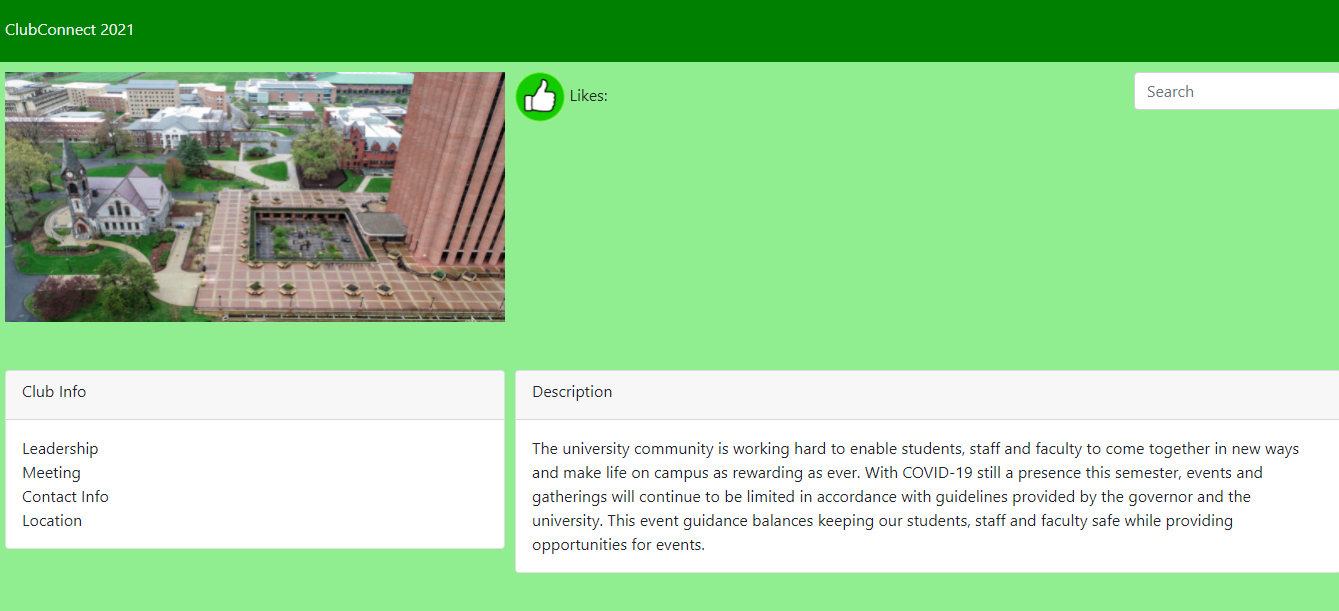
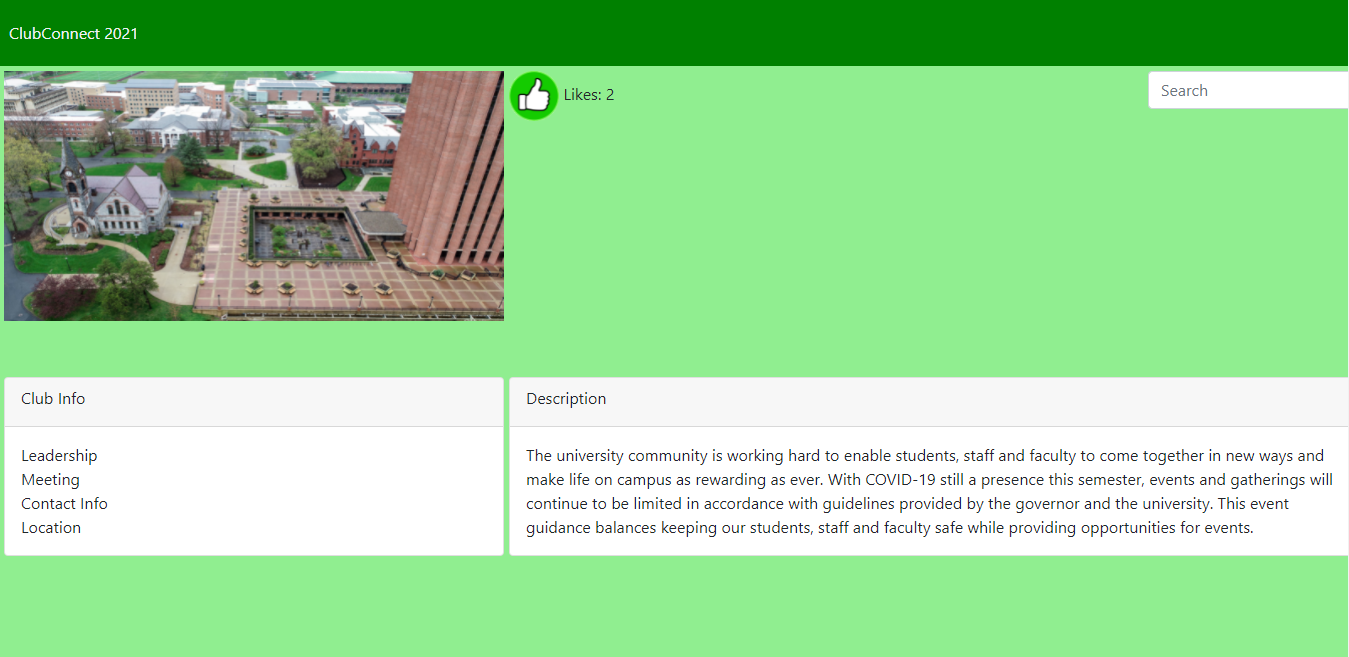
fixing bugs

diff --git a/app/public/index/club-personal-page.html b/app/public/index/club-personal-page.html
@@ -46,11 +46,11 @@
                     </div>
                 </div>
                 <div class="card-body">
-                  <label id = "club-name">Club Name</label><br>
-                  <label id = "leadership">Leadership</label><br>
-                  <label id = "meeting">Meeting</label><br>
-                  <label id = "contact-info">Contact Info</label><br>
-                  <label id = "location">Location</label><br>
+                  <input type="text" id="club-name"><br>
+                  <input type="text" id="meeting"><br>
+                  <input type="text" id="contact"><br>
+                  <input type="text" id="location"><br>
+                  <button type="button" id = 'club-info-edit'>Edit</button><br>
                 </div>
               </div>
             </div>
@@ -63,12 +63,14 @@
                     </div>
                 </div>
                 <div class="card-body" id = "club-description">
-                  The university community is working hard to enable students, staff and faculty to come together in new ways and make life on campus as rewarding as ever. With COVID-19 still a presence this semester, events and gatherings will continue to be limited in accordance with guidelines provided by the governor and the university. This event guidance balances keeping our students, staff and faculty safe while providing opportunities for events.
+                  <input type="text" id="desc">
+                  <button type="button" id = 'club-desc-edit'>Edit</button><br>
                 </div>
               </div>
             </div>
           </div>
         </div>
         <script src="https://cdn.jsdelivr.net/npm/bootstrap@5.1.3/dist/js/bootstrap.bundle.min.js" integrity="sha384-ka7Sk0Gln4gmtz2MlQnikT1wXgYsOg+OMhuP+IlRH9sENBO0LRn5q+8nbTov4+1p" crossorigin="anonymous"></script>
+        <script src="scripts/clubPersonalPage.js"></script>
     </body>
 </html>

diff --git a/app/public/scripts/clubPersonalPage.js b/app/public/scripts/clubPersonalPage.js
@@ -1,12 +1,12 @@
-async function getClubPersonalPage() {
+window.addEventListener('load', async () => {
     const res = await fetch('/read-club');
     const data = await res.json();
 
     document.getElementById('club-name').innerHTML = data.clubName;
     document.getElementById('meeting').innerHTML = data.meeting;
-    document.getElementById('contact-info').innerHTML = data.contact;
+    document.getElementById('contact').innerHTML = data.contact;
     document.getElementById('location').innerHTML = data.location;
-    document.getElementById('club-description').innerHTML = data.bio;
+    document.getElementById('desc').innerHTML = data.bio;
 
     document.getElementById('members-list').innerHTML = '';
     for (let member of data.members) {
@@ -14,4 +14,19 @@ async function getClubPersonalPage() {
         e.innerHTML = member;
         document.getElementById('members-list').appendChild(e);
     }
-}
+});
+
+document.getElementById('club-info-edit').addEventListener('click', () => {
+    updateClubInfo(localStorage.getItem('profileEmail'), 
+    document.getElementById('club-name').innerHTML,
+    document.getElementById('meeting').innerHTML,
+    document.getElementById('contact').innerHTML,
+    document.getElementById('location').innerHTML);
+    window.location.href = '/personal-page';
+});
+
+document.getElementById('club-desc-edit').addEventListener('click', () => {
+    updateClubDesc(localStorage.getItem('profileEmail'), 
+    document.getElementById('desc').innerHTML)
+    window.location.href = '/personal-page';
+});

diff --git a/app/public/scripts/clubHomePage.js b/app/public/scripts/clubHomePage.js
@@ -1,17 +1,15 @@
-async function getClubHomePage() {
+window.addEventListener('load', async () => {
     const res = await fetch('/read-club');
     const data = await res.json();
 
     document.getElementById('likes').innerHTML = 'Likes:' + data.totalLikes;
-    document.getElementById('club-name').innerHTML = data.clubName;
-    document.getElementById('meeting').innerHTML = data.meeting;
-    document.getElementById('contact-info').innerHTML = data.contact;
-    document.getElementById('location').innerHTML = data.location;
+    document.getElementById('club-name').innerHTML = 'Name: ' + data.clubName;
+    document.getElementById('meeting').innerHTML = 'Meeting:' + data.meeting;
+    document.getElementById('contact-info').innerHTML = 'Contact' + data.contact;
+    document.getElementById('location').innerHTML = 'Location' + data.location;
     document.getElementById('club-description').innerHTML = data.bio;
     
-    for (let member of data.members) {
-        const e = document.createElement('li');
-        e.innerHTML = member;
-        document.getElementById('members').appendChild(e);
-    }
-}
+    //search
+    
+
+});

diff --git a/app/database.js b/app/database.js
@@ -190,6 +190,43 @@ export async function updateClub(email) {
 
 }
 
+export async function updateClubInfo(email, name, meet, contac, place) {
+	await client.connect();
+	const database = client.db('club_connect_db');
+	const clubs = database.collection('clubs');
+
+	clubs.update(
+		{"email": email},
+		{
+		  $set: {
+			"name": name,
+			"meeting": meet,
+			"contact": contac,
+			"location": place
+		  }
+		}
+	  );
+
+	await client.close();
+}
+
+export async function updateClubDesc(email, desc) {
+	await client.connect();
+	const database = client.db('club_connect_db');
+	const clubs = database.collection('clubs');
+
+	clubs.update(
+		{"email": email},
+		{
+		  $set: {
+			"bio": desc
+		  }
+		}
+	  );
+
+	await client.close();
+}
+
 /**
  * CRUD Operations for Posts
  * 

diff --git a/app/public/index/club-home-page.html b/app/public/index/club-home-page.html
@@ -38,7 +38,6 @@
                 </div>
                 <div class="card-body">
                   <label id = "club-name">Club Name</label><br>
-                  <label id = "leadership">Leadership</label><br>
                   <label id = "meeting">Meeting</label><br>
                   <label id = "contact-info">Contact Info</label><br>
                   <label id = "location">Location</label><br>
@@ -61,5 +60,6 @@
           </div>
         </div>
         <script src="https://cdn.jsdelivr.net/npm/bootstrap@5.1.3/dist/js/bootstrap.bundle.min.js" integrity="sha384-ka7Sk0Gln4gmtz2MlQnikT1wXgYsOg+OMhuP+IlRH9sENBO0LRn5q+8nbTov4+1p" crossorigin="anonymous"></script>
+        <script src="scripts/clubHomePage.js"></script>
     </body>
 </html>

diff --git a/app/public/scripts/studentPersonalPage.js b/app/public/scripts/studentPersonalPage.js
@@ -1,4 +1,4 @@
-async function getStudentPersonalPage() {
+window.addEventListener('load', async () => {
     const res = await fetch('/read-student');
     const data = await res.json();
 
@@ -25,4 +25,4 @@ async function getStudentPersonalPage() {
         e.innerHTML = friend;
         document.getElementById('friend-list').appendChild(e);
     }
-}
+});

diff --git a/app/public/index/student-home-page.html b/app/public/index/student-home-page.html
@@ -37,5 +37,6 @@
               </div> 
         </div>
         <script src="https://cdn.jsdelivr.net/npm/bootstrap@5.1.3/dist/js/bootstrap.bundle.min.js" integrity="sha384-ka7Sk0Gln4gmtz2MlQnikT1wXgYsOg+OMhuP+IlRH9sENBO0LRn5q+8nbTov4+1p" crossorigin="anonymous"></script>
+        <script src="scripts/studentHomePage.js"></script>
     </body>
 </html>

diff --git a/app/public/index/student-personal-page.html b/app/public/index/student-personal-page.html
@@ -73,5 +73,6 @@
           </div>
         </div>
         <script src="https://cdn.jsdelivr.net/npm/bootstrap@5.1.3/dist/js/bootstrap.bundle.min.js" integrity="sha384-ka7Sk0Gln4gmtz2MlQnikT1wXgYsOg+OMhuP+IlRH9sENBO0LRn5q+8nbTov4+1p" crossorigin="anonymous"></script>
+        <script src="scripts/studentPersonalPage.js"></script>
     </body>
 </html>

diff --git a/app/public/scripts/studentHomePage.js b/app/public/scripts/studentHomePage.js
@@ -1,4 +1,4 @@
-async function getStudentHomePage() {
+window.addEventListener('load', async () => {
     const res = await fetch('/read-student');
     const data = await res.json();
     
@@ -9,5 +9,4 @@ async function getStudentHomePage() {
         document.getElementById('schedule').appendChild(e);
     }
     
-
-}
+});

diff --git a/docs/milestone2.md b/docs/milestone2.md
@@ -91,7 +91,7 @@ The READ operation /club/info can retrieves some information to be shown to the 
 The above club view of their member's profile pages utilizes an example of a DELETE operation when the user clicks "Remove Member" which updates the clubs members to remove that specified member. The interface also utilizes READ operations by reading all the information from /student/info to display on the page.
 
 ### Club Home Page
-![Club Home Page Image](html-and-css/ClubHomePage2.png "Club Home Page")
+![Club Home Page Image](html-and-css/ClubHomePage.png "Club Home Page")
 /club/like/update is an UPDATE operation that increase the like count. /club/info/update and /club/description/update are UPDATE operations that changes club info and club descriptions respectively.
 
 ## Part 3: Deployment

diff --git a/docs/final.md b/docs/final.md
@@ -1,0 +1,42 @@
+# Team Dalet
+## Club Connect
+## Fall 2021
+## Overview
+
+## Team Members
+**Name:** Gary Szekely  
+**GitHub Username:** garyszekely
+
+**Name:** Dang Le Nguyen  
+**GitHub Username:** DanGithub200, Dang592
+
+## Division of Labor
+- 
+
+## Overview:
+
+## User Interface:
+
+
+## APIs:
+
+
+## Database:
+
+
+
+## URL Routes / Mapping
+| URL                      | Description | 
+|--------------------------|--------------|
+| /landingpage.html        | Used for Logging into existing accounts |
+
+
+## Authentication
+
+## Conclusion
+
+## Heroku Link
+
+## Rubric
+
+## Video
